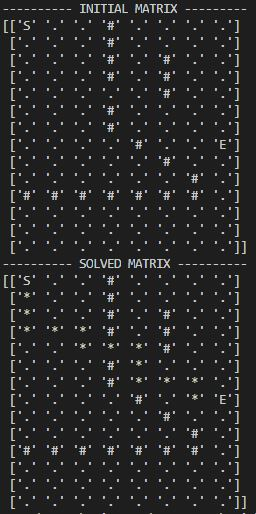
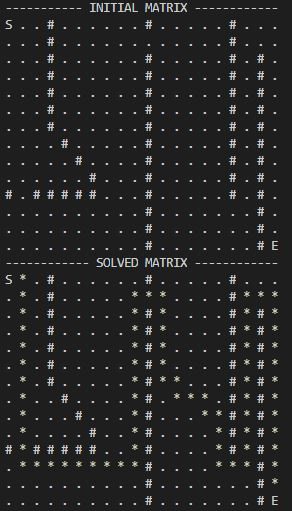
add priority queue

diff --git a/code/A-star_prioqueue.py b/code/A-star_prioqueue.py
@@ -1,0 +1,179 @@
+import numpy as np
+import math
+from queue import PriorityQueue
+
+
+def heuristics(x1, y1, x2, y2):
+    return math.sqrt((x1-x2)**2 + (y1-y2)**2)
+
+def printMap(mtx_gridnode, width, height):
+    for y in range(height):
+        for x in range(width):
+            gridnode = mtx_gridnode[y, x]
+            print(gridnode.get_symbol(), end=" ")
+        print('')
+    
+
+class GridNode:
+    def __init__(self, x, y, symbol):
+        self.x = x
+        self.y = y
+        self.cur_neighbors = []
+        self.symbol = symbol
+
+    def is_start(self):
+        return self.symbol == 'S'
+    
+    def is_end(self):
+        return self.symbol == 'E'
+    
+    def is_block(self):
+        return self.symbol == '#'
+    
+    def is_passable(self):
+        return self.symbol == '.'
+    
+    def get_neighbors(self):
+        return self.cur_neighbors
+    
+    def add_neighbor(self, neighbor):
+        self.cur_neighbors.append(neighbor)
+        return
+    
+    def get_coords(self):
+        return self.x, self.y
+    
+    def get_symbol(self):
+        return self.symbol
+
+    def set_symbol(self, symbol):
+        self.symbol = symbol
+        
+    # Used for priority queue to allow for a less than comparison
+    def __lt__(self, other):
+        return False
+    
+def initializeNeighbors(mtx_gridnode, width, height):
+    for y in range(height):
+        for x in range(width):
+            gridnode = mtx_gridnode[y, x]
+            # x + 1
+            if x + 1 < width:
+                if not mtx_gridnode[y, x+1].is_block():
+                    gridnode.add_neighbor(mtx_gridnode[y, x+1])
+            
+            # x - 1
+            if x - 1 >= 0:
+                if not mtx_gridnode[y, x-1].is_block():
+                    gridnode.add_neighbor(mtx_gridnode[y, x-1])
+            
+            # y + 1
+            if y + 1 < height:
+                if not mtx_gridnode[y+1, x].is_block():
+                    gridnode.add_neighbor(mtx_gridnode[y+1, x])
+            
+            # y - 1
+            if y - 1 >= 0:
+                if not mtx_gridnode[y-1, x].is_block():
+                    gridnode.add_neighbor(mtx_gridnode[y-1, x])
+                    
+    return
+
+def reconstructPath(came_from, current):
+    count = 0
+    while current in came_from:
+        count += 1
+        if current.get_symbol() != 'S' and current.get_symbol() != 'E':
+            current.set_symbol('*')
+        current = came_from[current]
+    # return length of path
+    return count
+
+
+def AStarMethod():
+    #---------- Initialize Input Matrix -----------
+    
+    inp_list = []
+    with open("input_matrix.txt", "r") as filestream:
+        for line in filestream:
+            inp_row = line.split(", ")
+            inp_row = inp_row[:len(inp_row)-1]
+            inp_list.append(inp_row)
+
+    if len(inp_list) == 0:
+        return 
+    
+    height_mtx = len(inp_list)
+    width_mtx = len(inp_list[0])
+    
+    inp_mtx = []
+    start = None
+    end = None
+    
+    # Create the grid
+    for y in range(height_mtx):
+        inp_row = []
+        for x in range(width_mtx):
+            gridnode = GridNode(x, y, inp_list[y][x])
+            if gridnode.is_start():
+                start = gridnode
+            if gridnode.is_end():
+                end = gridnode
+            inp_row.append(gridnode)
+        inp_mtx.append(inp_row)
+    
+    inp_mtx = np.array(inp_mtx)
+    print("----------- INITIAL MATRIX ------------")
+    printMap(inp_mtx, width_mtx, height_mtx)
+    
+    if start == None or end == None:
+        print("Please insert an 'S' for start and 'E' for end")
+        return
+    
+    # initialize the neighbors in the grid
+    initializeNeighbors(inp_mtx, width_mtx, height_mtx)
+    
+    # ------------ Begin A-star Algorithm -----------
+    came_from = {}
+    
+    # A hash array with the gridnodes as a key
+    g_score = {gridnode: float("inf") for row in inp_mtx for gridnode in row}
+    g_score[start] = 0
+    f_score = {gridnode: float("inf") for row in inp_mtx for gridnode in row}
+    f_score[start] = heuristics(
+        start.get_coords()[0], start.get_coords()[1], end.get_coords()[0],end.get_coords()[0])
+    
+    # priority queue will take the item with the minimum first value, i.e. the f score
+    open_set = PriorityQueue()
+    open_set.put((f_score[start], start))
+    open_set_hash = {start}
+    
+    while not open_set.empty():
+        # obtains the gridnode with minimum f score
+        current = open_set.get()[1]
+        open_set_hash.remove(current)
+        
+        if current == end:
+            reconstructPath(came_from, current)
+            print("------------ SOLVED MATRIX ------------")
+            printMap(inp_mtx, width_mtx, height_mtx)
+            return 
+            
+        for neighbor in current.get_neighbors():
+            temp_gscore = g_score[current] + 1
+            if temp_gscore < g_score[neighbor]:
+                came_from[neighbor] = current
+                g_score[neighbor] = temp_gscore
+                f_score[neighbor] = g_score[neighbor] + heuristics(
+                    neighbor.get_coords()[0], neighbor.get_coords()[1], end.get_coords()[0], end.get_coords()[1])
+                if neighbor not in open_set_hash:
+                    open_set.put((f_score[neighbor], neighbor))
+                    open_set_hash.add(neighbor)
+    
+    print("No path possible")
+    return
+            
+
+
+if __name__ == "__main__":
+    AStarMethod()
